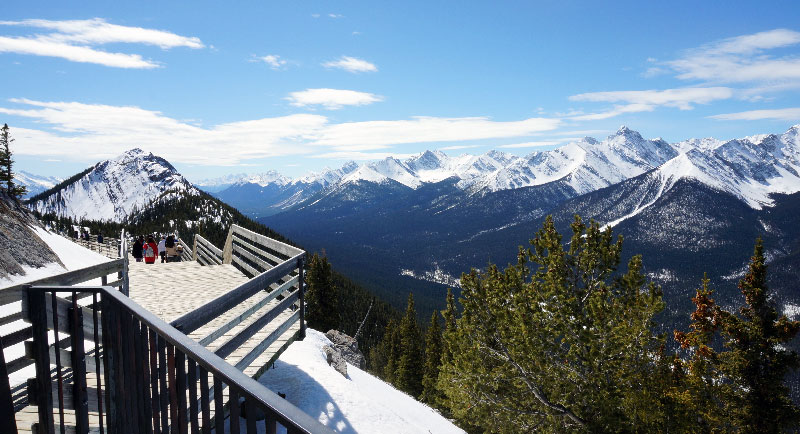
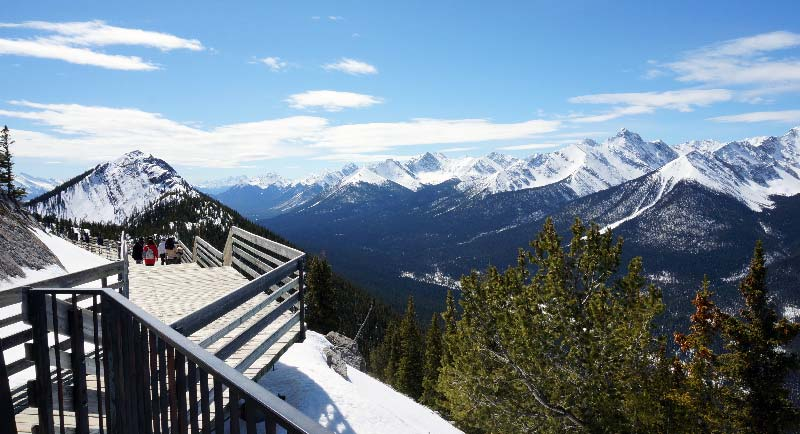
image size reduced and bg changed

diff --git a/index.html b/index.html
@@ -65,7 +65,7 @@
 	                    <span class="icon-bar"></span>
 	                    <span class="icon-bar"></span>
 	                  </button>
-	                  <a class="navbar-brand" href="#"></a>
+	                  <a class="navbar-brand" href="#"><img src="" alt=""></a>
 	                </div>
 
 	                <!-- Collect the nav links, forms, and other content for toggling -->
@@ -91,18 +91,7 @@
 	                        </div>
 	                    </div>
 	                </div>
-	            </div>
-
-	            <div class="container">
-	                <div class="row">
-	                    <div class="col-md-12 text-center">
-	                        <div class="scroll_down">
-                            <a href="#SERVICE"><img src="images/scroll.png" alt=""></a>
-	                            <h4>Scroll Down</h4>
-	                        </div>
-	                    </div>
-	                </div>
-	            </div>            
+	            </div>    
 	        </div>  
 	    </section>         
     </header>
@@ -157,7 +146,7 @@
             <div class="row">
                 <div class="col-md-4  wow fadeInLeft animated">
                     <div class="single_progress_bar">
-                        <h2>C/C++ - 85%</h2>
+                        <h2>C/C++</h2>
                         <div class="progress">
                           <div class="progress-bar" role="progressbar" aria-valuenow="85" aria-valuemin="0" aria-valuemax="100" style="width: 85%;">
                             <span class="sr-only">85% Complete</span>
@@ -165,23 +154,15 @@
                         </div>
                     </div>
                     <div class="single_progress_bar">
-                        <h2>C#- 50%</h2>
+                        <h2>C#</h2>
                         <div class="progress">
-                          <div class="progress-bar" role="progressbar" aria-valuenow="50" aria-valuemin="0" aria-valuemax="100" style="width: 50%;">
-                            <span class="sr-only">50% Complete</span>
+                          <div class="progress-bar" role="progressbar" aria-valuenow="60" aria-valuemin="0" aria-valuemax="100" style="width: 60%;">
+                            <span class="sr-only">60% Complete</span>
                           </div>
                         </div>
                     </div>
                     <div class="single_progress_bar">
-                        <h2>HTML/CSS - 65%</h2>
-                        <div class="progress">
-                          <div class="progress-bar" role="progressbar" aria-valuenow="65" aria-valuemin="0" aria-valuemax="100" style="width: 65%;">
-                            <span class="sr-only">65% Complete</span>
-                          </div>
-                        </div>
-                    </div>
-                    <div class="single_progress_bar">
-                        <h2>MATLAB- 80%</h2>
+                        <h2>HTML/CSS</h2>
                         <div class="progress">
                           <div class="progress-bar" role="progressbar" aria-valuenow="80" aria-valuemin="0" aria-valuemax="100" style="width: 80%;">
                             <span class="sr-only">80% Complete</span>
@@ -189,7 +170,15 @@
                         </div>
                     </div>
                     <div class="single_progress_bar">
-                        <h2>MS OFFICE - 95%</h2>
+                        <h2>MATLAB</h2>
+                        <div class="progress">
+                          <div class="progress-bar" role="progressbar" aria-valuenow="80" aria-valuemin="0" aria-valuemax="100" style="width: 80%;">
+                            <span class="sr-only">80% Complete</span>
+                          </div>
+                        </div>
+                    </div>
+                    <div class="single_progress_bar">
+                        <h2>MS OFFICE</h2>
                         <div class="progress">
                           <div class="progress-bar" role="progressbar" aria-valuenow="95" aria-valuemin="0" aria-valuemax="100" style="width: 95%;">
                             <span class="sr-only">95% Complete</span>
@@ -260,7 +249,7 @@
                     <div class="work_title  wow fadeInUp animated">
                         <h1>Portfolio</h1>
                         <img src="images/shape.png" alt="">
-                        <p>Browse through all of my latest works!</p>
+                        <p>Look at my pro</p>
                     </div>
                 </div>
             </div>
@@ -271,7 +260,6 @@
                     <div class="single_image">
                         <img src="images/keil.jpg" alt="">
                         <div class="image_overlay">
-                            <a href="">View Full Project</a>
                             <h2>Keil</h2>
                             <h4>RTOS</h4>
                         </div>
@@ -281,7 +269,6 @@
                     <div class="single_image">
                         <img src="images/pcb.jpg" alt="">
                         <div class="image_overlay">
-                            <a href="">View Full Project</a>
                             <h2>PCB</h2>
                             <h4>Sensors and Instrumentation</h4>
                         </div>                        
@@ -291,7 +278,6 @@
                     <div class="single_image">
                         <img src="images/caliper.jpg" alt="">
                         <div class="image_overlay">
-                            <a href="">View Full Project</a>
                             <h2>Arduino Caliper</h2>
                             <h4>Design and Implementation</h4>
                         </div>                        
@@ -301,9 +287,8 @@
             <div class="row pad_top">
                 <div class="col-md-4 no_padding">
                     <div class="single_image">
-                        <img src="images/davinci.png" alt="">
+                        <img src="images/davinci.jpg" alt="">
                         <div class="image_overlay">
-                            <a href="">View Full Project</a>
                             <h2>Davinci</h2>
                             <h4>Lego NXT Printer</h4>
                         </div>                        
@@ -313,7 +298,6 @@
                     <div class="single_image">
                         <img src="images/psca.jpg" alt="">
                         <div class="image_overlay">
-                            <a href="">View Full Project</a>
                             <h2>Biomechanical Research</h2>
                             <h4>PSCA Study</h4>
                         </div>                        
@@ -323,7 +307,6 @@
                     <div class="single_image last_padding">
                         <img src="images/rockies.jpg" alt="">
                         <div class="image_overlay">
-                            <a href="">View Full Project</a>
                             <h2>Photography</h2>
                             <h4>Enthusiast: Rockies</h4>
                         </div>                        
@@ -383,8 +366,8 @@
         <div class="row">
             <div class="col-md-12 text-center">
                 <div class="copyright_text   wow fadeInUp animated">
-                    <p>&copy;Template Made By <a href="http://www.themeforest.net/user/thecodecafe"target="_blank">Code Cafe Team</a></p>
-                    <p>Code modified By Helen Cho</p>
+                    <p>By Helen Cho</p>
+                    <a class="navbar-brand" href="#"></a>
                 </div>
             </div>
         </div>

diff --git a/css/style.css b/css/style.css
@@ -21,7 +21,7 @@ text-transform: uppercase;
 	color: #f74d65;
 }
 header{
-	background: url(../images/header_bg.jpg);
+	background: url(../images/bg_helen.jpg);
 	background-size: cover;
 	background-repeat: no-repeat;
 }
@@ -97,7 +97,7 @@ background-color: #2d3334;
 	font-weight: 400;
 }
 .about_us_p{
-	font-size: 18px;
+	font-size: 16px;
 	color: #272727;
 	margin-top: 20px;
 	margin-bottom: 10px;
@@ -168,7 +168,7 @@ padding-top: 110px;
 
 /*Fun Facts*/
 .fun_facts{
-	background: url(../images/header_bg.jpg);
+	background: url(../images/bg_helen.jpg);
 	background-attachment: fixed !important;
 	background-repeat: repeat;
 	
